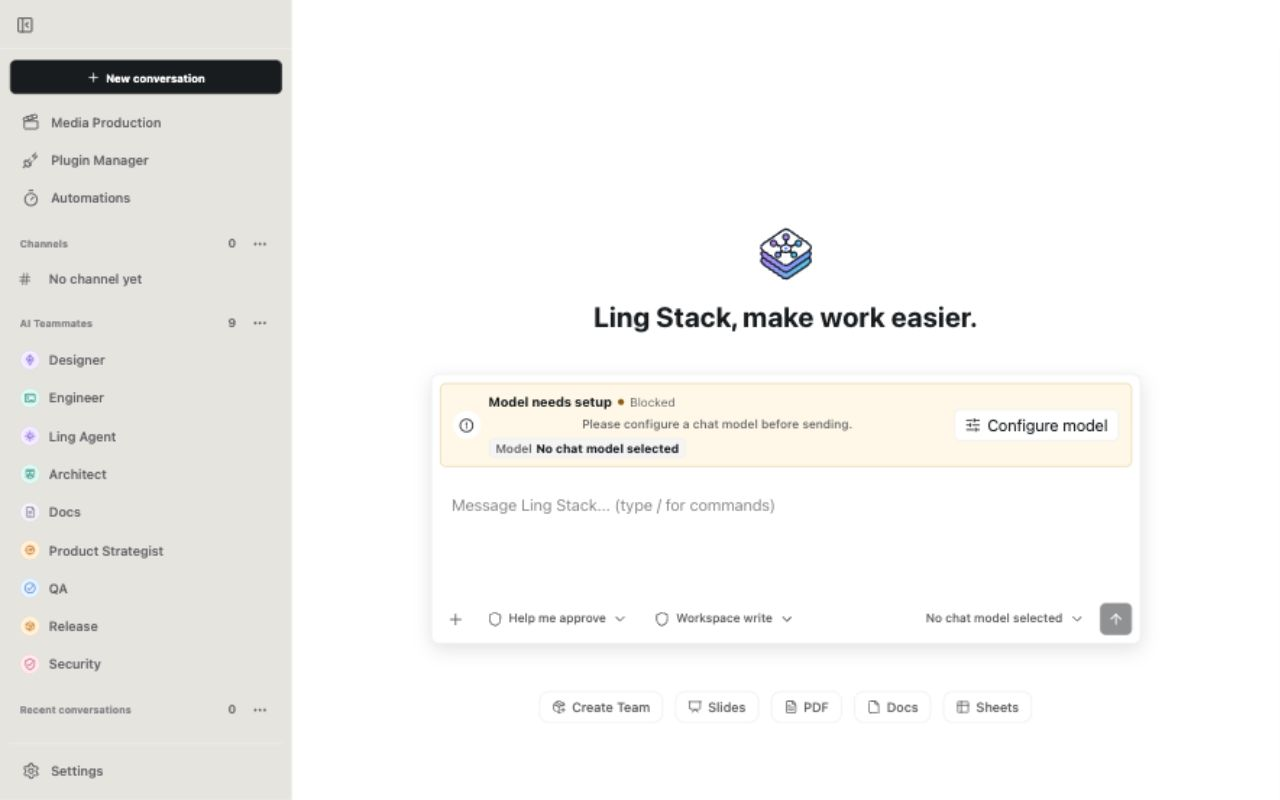
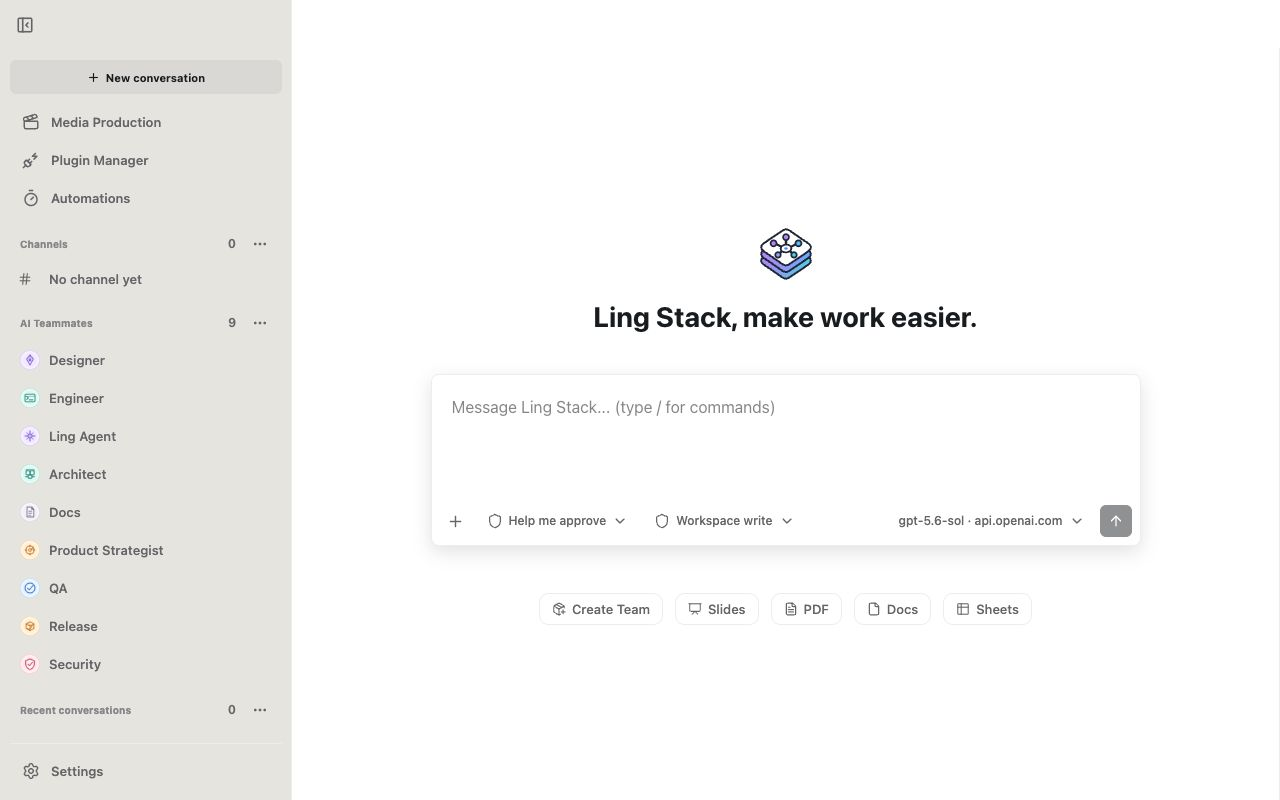
docs: replace blocked homepage screenshot

diff --git a/docs/maintenance/asset-provenance.md b/docs/maintenance/asset-provenance.md
@@ -28,14 +28,16 @@ not by this tracked-file count.
 | Social preview | 1 | `docs/design/assets/ling-stack-social-preview.png`; the same maintainer confirmation covers this image. Detailed creation metadata is not recorded. Retained as the repository social preview candidate. |
 | Desktop preview test baselines | 34 | Visual acceptance fixtures under `apps/desktop/tests/screenshots/computer-use-preview/darwin-arm64/`; preserve these as test evidence. They are not end-user feature acceptance or a product demo. |
 | Web design evidence | 7 | Theme/profile screenshots under `docs/design/ui2.0升级/evidence/`; historical visual evidence, not a current product demo. |
-| Public homepage screenshot | 1 | [Fresh workspace capture](../assets/ling-workspace-home.jpg), recaptured on 2026-10-10 from the local Web UI with the English interface and Ling Light theme, before configuring a model. No real task, personal workspace path, or API key is shown. |
+| Public homepage screenshot | 1 | [Fresh workspace capture](../assets/ling-workspace-home.jpg), recaptured on 2026-10-17 from the local Web UI at merge commit `cd7d9d83bf3b13ac3b8b68c99f343e51a01a6e56`, with the English interface, Ling Light theme, and a non-secret demonstration model selected. No real task, personal workspace path, API key, or external model request is shown. |
 
 The current homepage image is an unedited browser capture at 1280 x 800, taken from
-source commit `2caf8637c119fbbee6c5c1fdf47f53f7ad60d561` using an isolated fresh
+source commit `cd7d9d83bf3b13ac3b8b68c99f343e51a01a6e56` using an isolated fresh
 workspace. Product language was changed through Settings > Interface preferences >
-Product language. It replaces the earlier Chinese capture, not the brand assets or
-Chrome Web Store candidates. Browser warnings and errors were checked after capture;
-none were reported. This screenshot is not packaged-client or full feature acceptance.
+Product language. The selected model uses a public service label without a real API key,
+and no external model request was made. It replaces the earlier English capture with a
+blocked model warning, not the brand assets or Chrome Web Store candidates. Browser
+warnings and errors were checked after capture; none were reported. This screenshot is
+not packaged-client or full feature acceptance.
 
 ## Origin Records
 

diff --git a/docs/maintenance/open-source-readiness.md b/docs/maintenance/open-source-readiness.md
@@ -37,7 +37,7 @@ Passing an earlier boundary does not authorize the next one.
 | Main branch protection | Verification deferred | Online settings were not confirmed in this preparation pass. |
 | Actions policy | File configuration present | The generic workflow has scoped permissions and pinned actions. Online organization/repository policy was not reverified. |
 | Git-history secret scan | Verified for current main and additional remote head | Complete 1,112-commit graph; 881 scanned diff commits match Git; unchanged policy and 32 fixture fingerprints. See scope below. |
-| Public UI screenshots | Ready locally | New homepage capture from a fresh workspace before model configuration; historical screenshots with maintainer paths were removed in earlier cleanup. |
+| Public UI screenshots | Ready locally | New English Ling Light homepage capture from an isolated fresh workspace with a non-secret demonstration model selected and no external model request; historical screenshots with maintainer paths were removed in earlier cleanup. |
 | Changelog and release policy | Ready locally | `CHANGELOG.md` and `docs/release/README.md`; current product version is `0.1.2-alpha.1`. |
 | Source startup | Verified locally | Frozen install, CLI/daemon/Web dependency build, fresh daemon health, homepage, and Model Workbench navigation; no live model task. |
 | Desktop development | Windows development package and runtime checks recorded; full binary acceptance pending | Mac packaging lacks the required Office review record. Windows development scope and limits are in the [test report](../release/evidence/windows-dev-20261009/README.md). |

diff --git a/README.md b/README.md
@@ -44,9 +44,9 @@ provider configuration and API key are required, and provider charges apply.
 
 ![Ling Stack English homepage in a fresh workspace](docs/assets/ling-workspace-home.jpg)
 
-English interface in a fresh local workspace before configuring a model. This capture
-shows the workspace layout, not a completed task. Follow the review guide above to
-try your own first collaboration.
+English interface in a fresh local workspace with a non-secret demonstration model
+selected. No external model request was made. This capture shows the workspace layout,
+not a completed task. Follow the review guide above to try your own first collaboration.
 
 ## Who Is It For?
 
